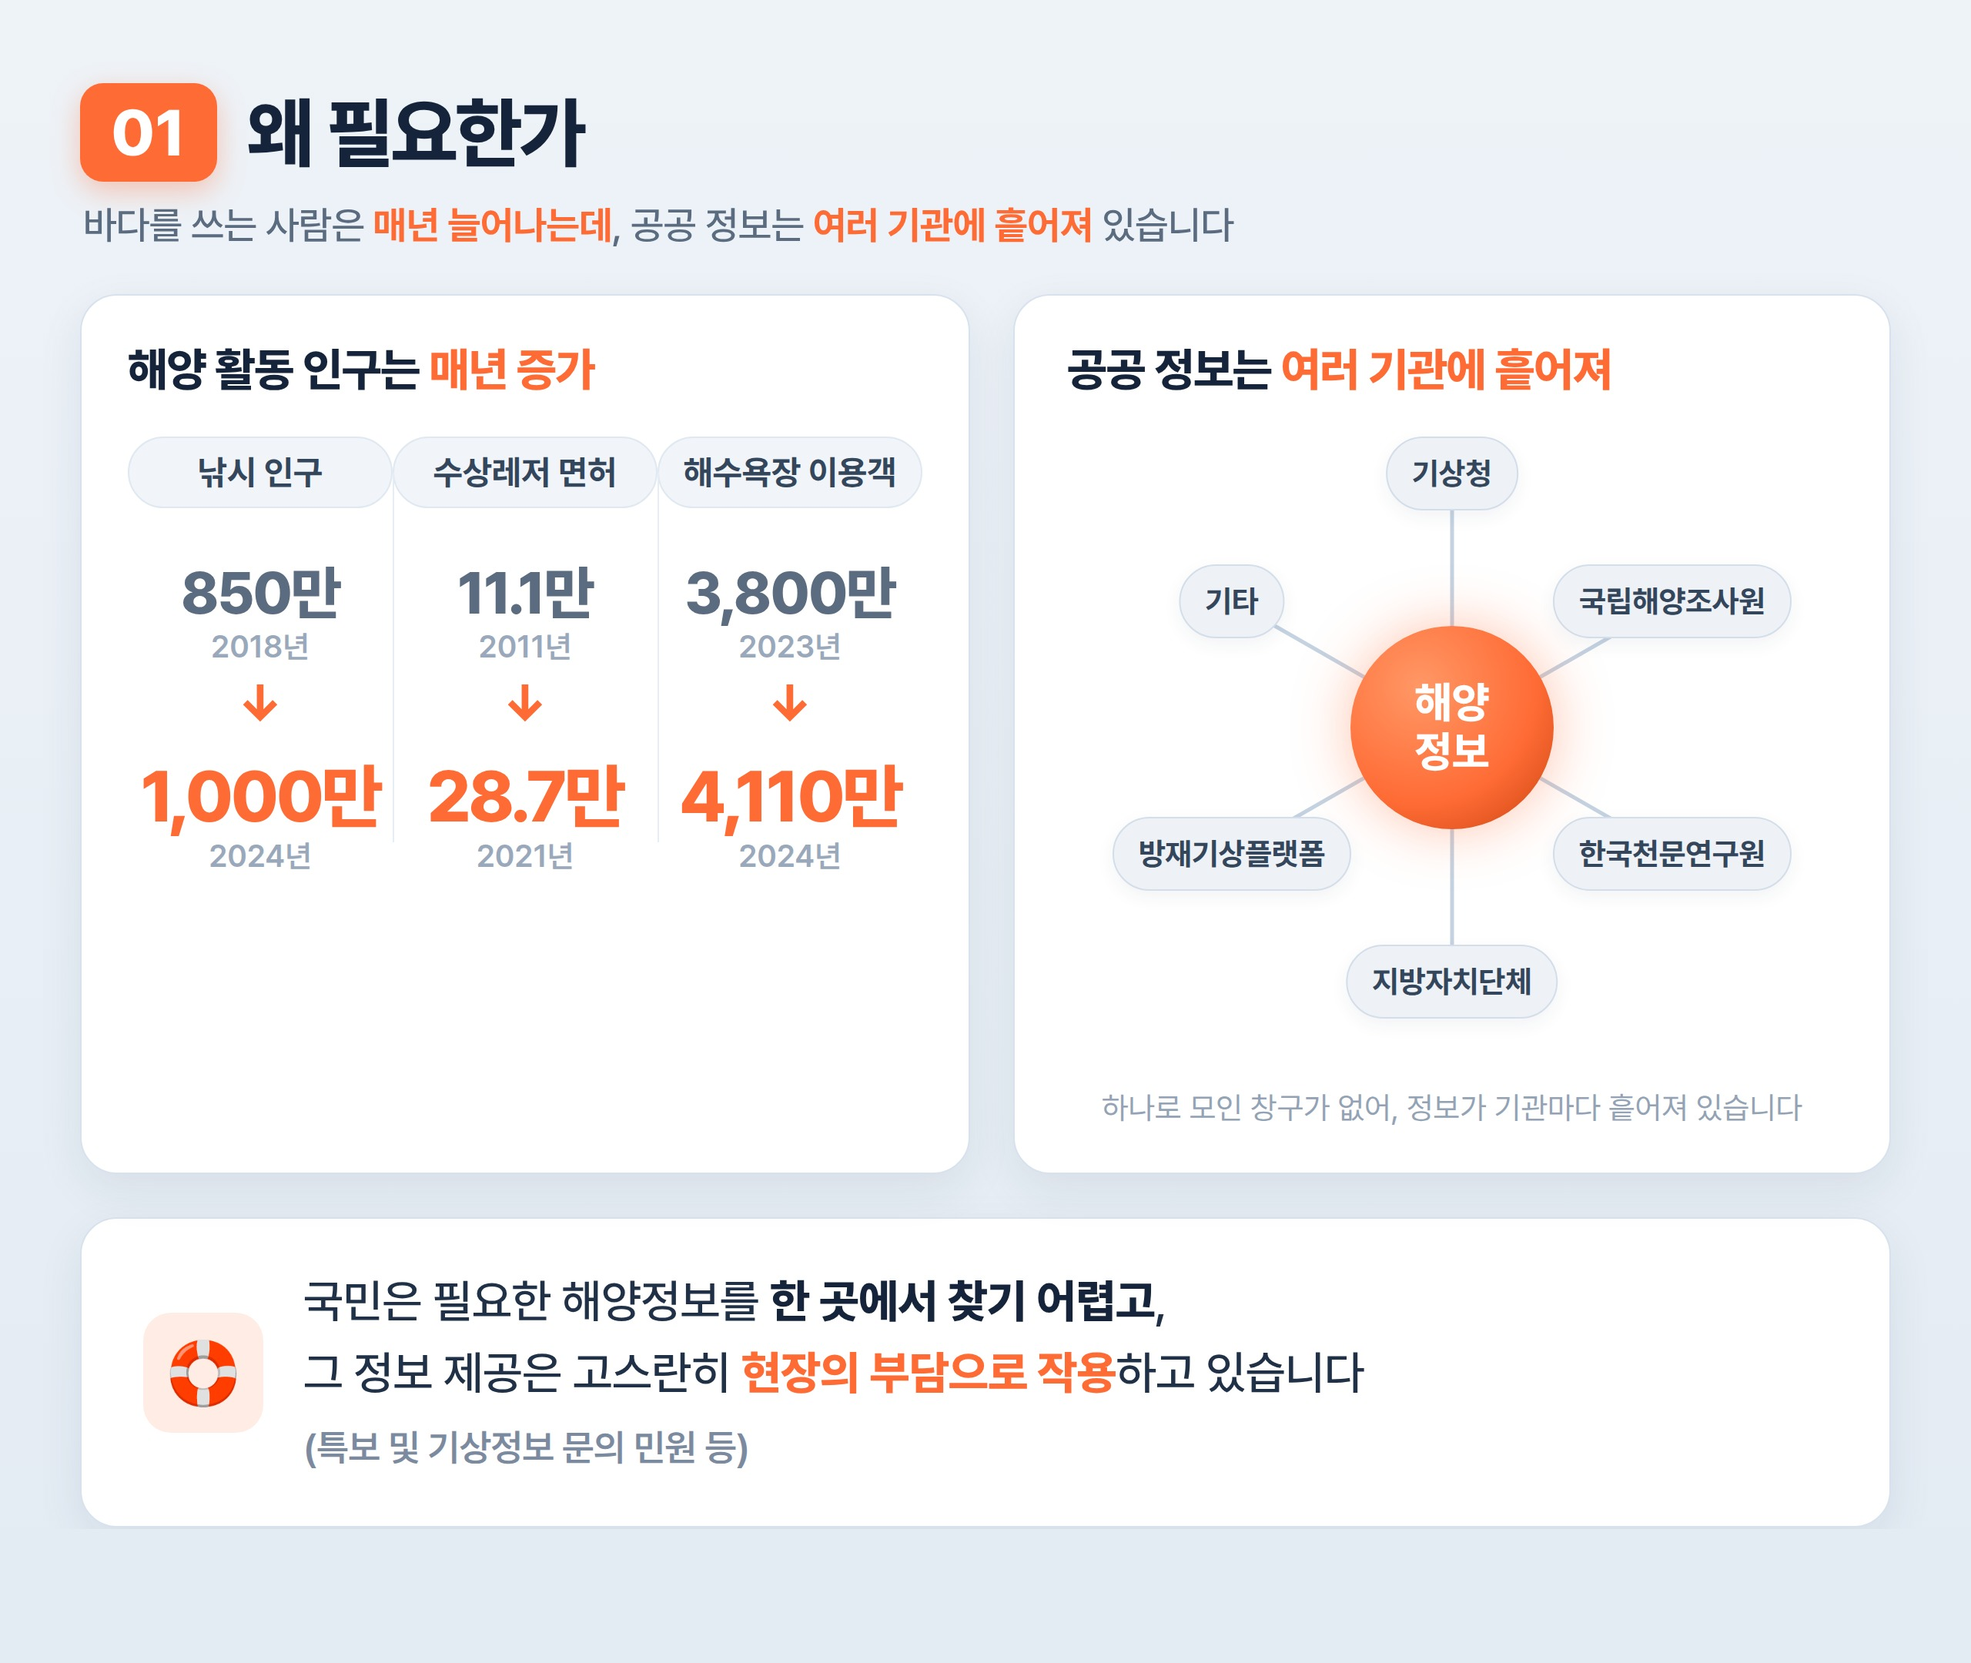
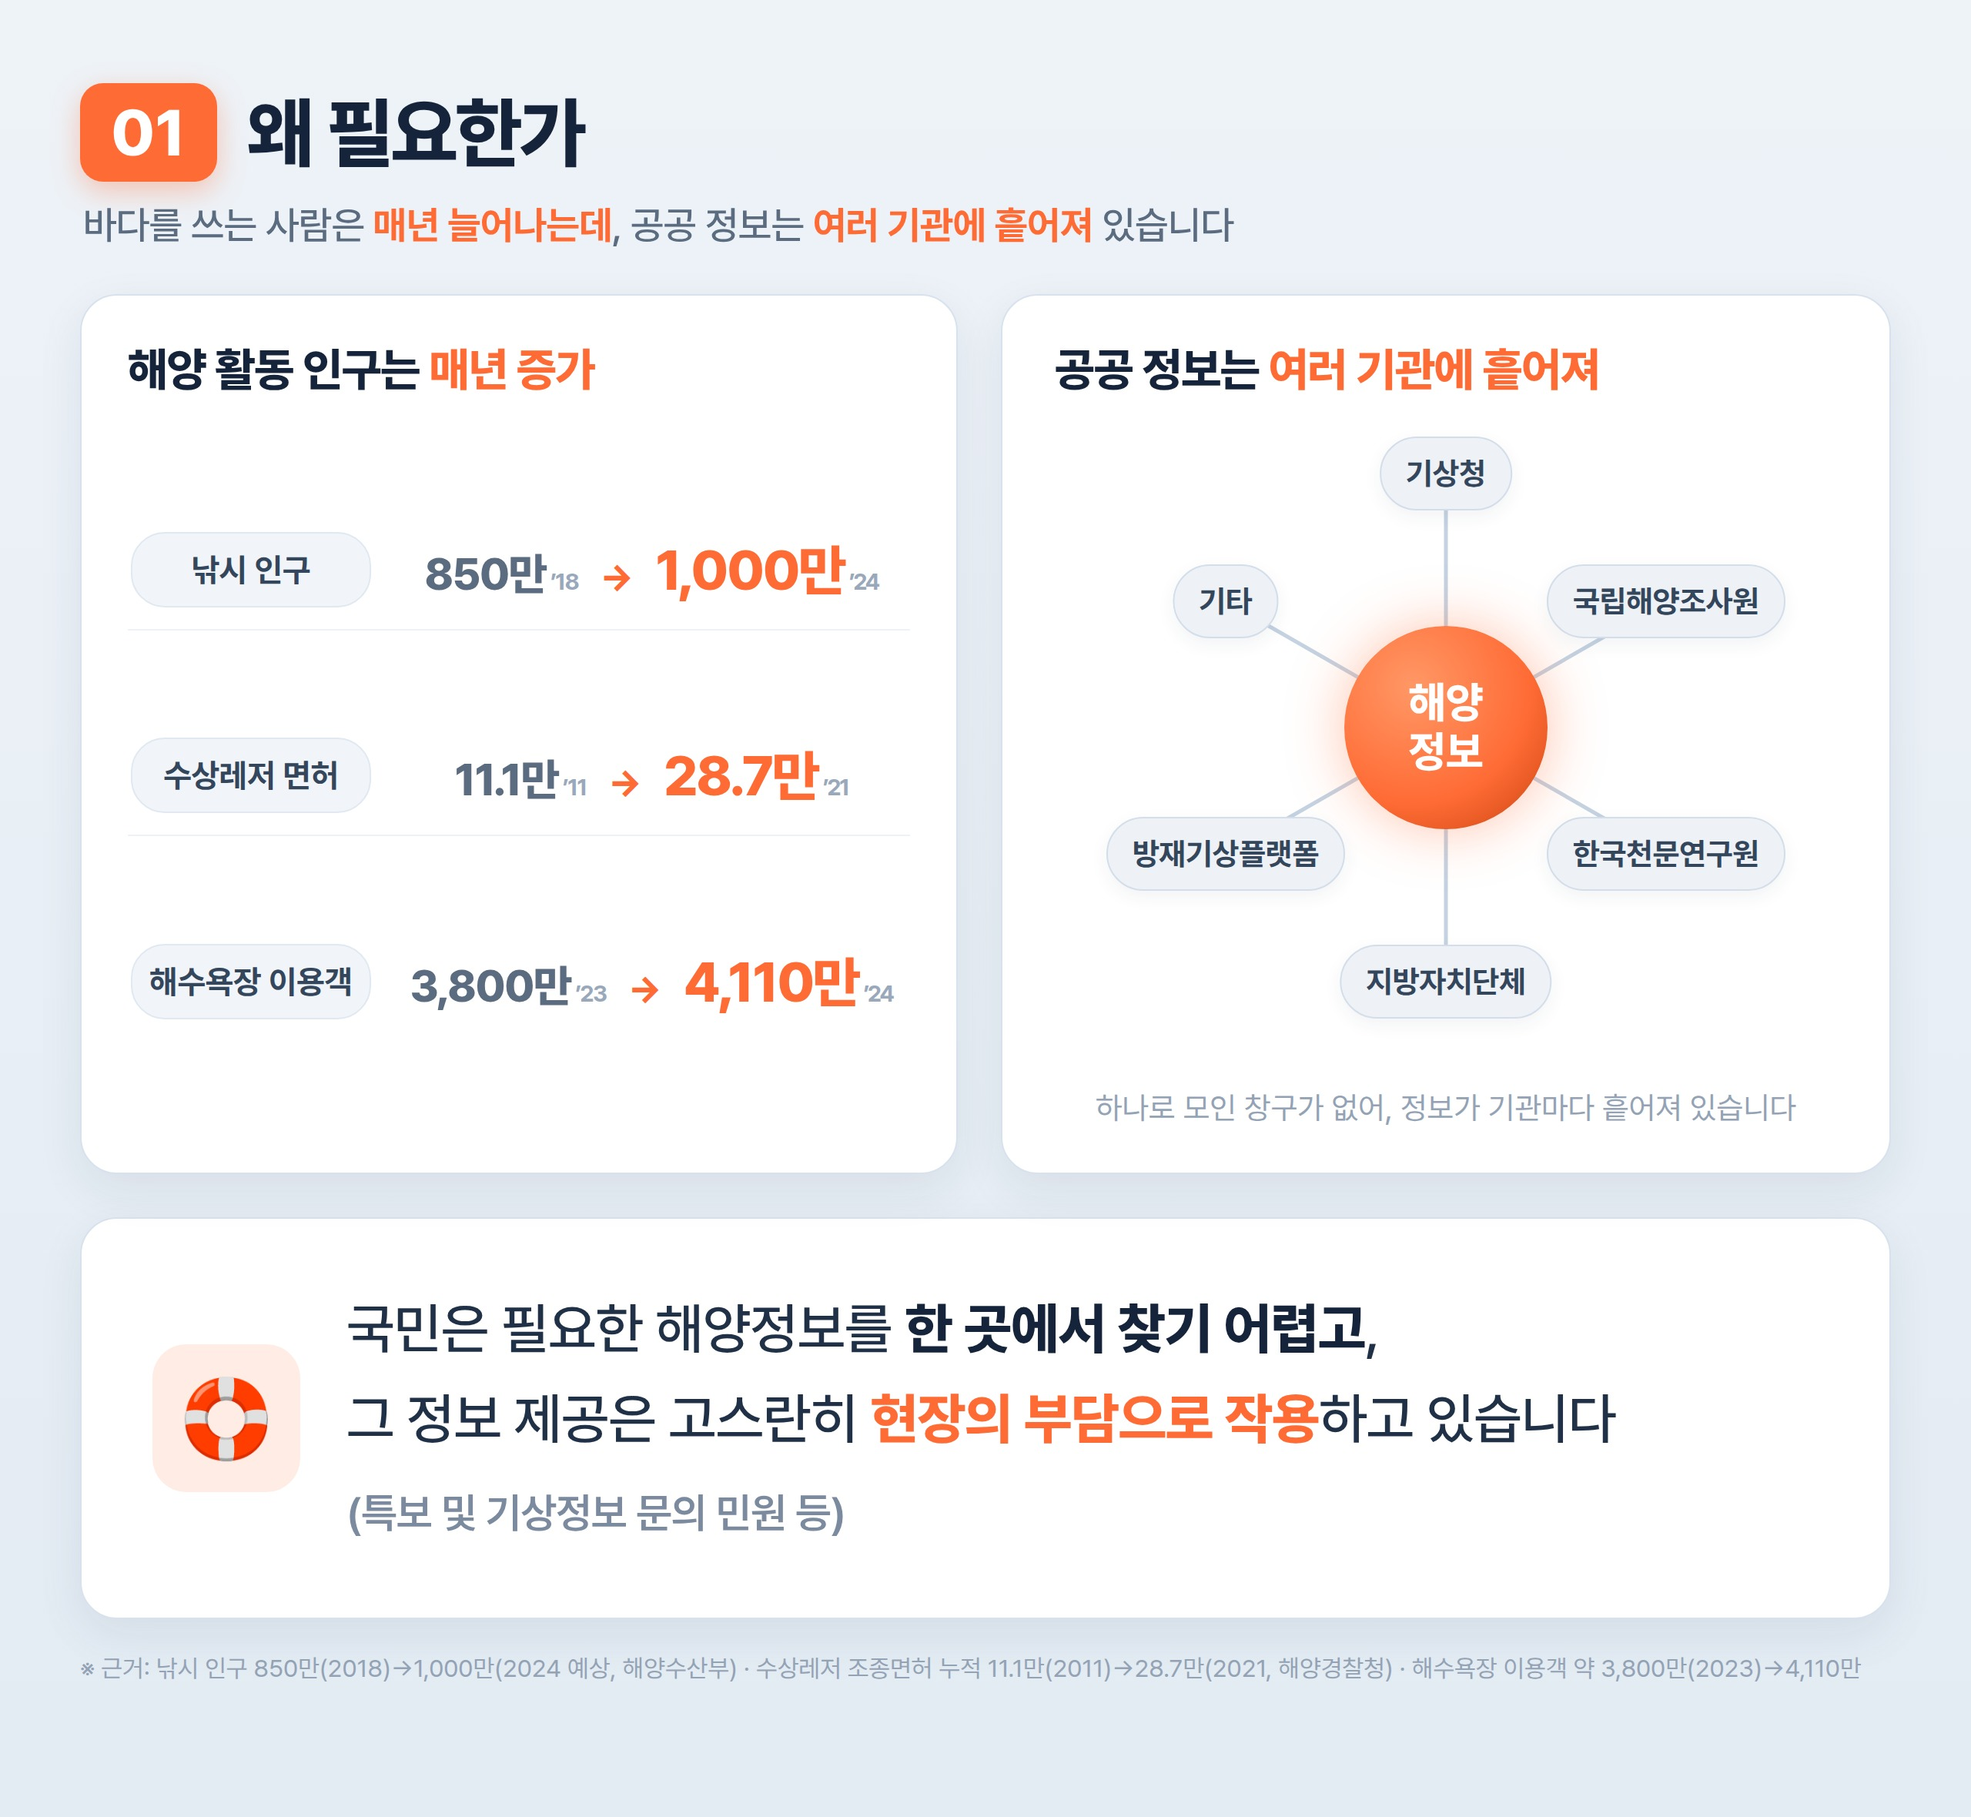
feat(formboard): 01 박스1 가로행·하단 강조 / 02 아이콘·깔때기·나리 시작
01 why2:
- 박스1: 세로 3컬럼 → 가로 행 3개(라벨 | before’yy → after’yy)로 하단 여백 제거
- 하단 '국민은~현장의 부담' 문구 크게(36px)·아이콘 확대

02 what:
- 상단 3박스에 아이콘(수집/AI/결과물) + 문구 간결화
- 'Gemini 2.5' 제거 → '자율 에이전트 나리가'로 시작
- 하단 연결을 아래로 좁아지는 깔때기(넓은 화살표)에 '이 모든 것을 하나의 앱으로' 삽입

Claude-Session: https://claude.ai/code/session_01NPSXCfcq7AeQ1foaBkT7hE

diff --git a/keynote_seagnal/formboard_what.html b/keynote_seagnal/formboard_what.html
@@ -11,26 +11,28 @@ html,body{font-family:'Pretendard',sans-serif;-webkit-font-smoothing:antialiased
 .sub b{color:#FF6B35;font-weight:700;}
 .cardbox{background:#fff;border-radius:24px;box-shadow:0 10px 30px rgba(30,50,80,.08);border:1px solid #d8e2ee;}
 
-/* ── 상단: [박스1] + [박스2] ▶ [박스3] ── */
+/* ── 상단: [박스1] ＋ [박스2] ▶ [박스3] (아이콘 + 간결) ── */
 .flow{display:flex;align-items:stretch;gap:0;}
-.fbox{flex:1;display:flex;flex-direction:column;padding:24px 24px 26px;min-height:330px;}
+.fbox{flex:1;display:flex;flex-direction:column;align-items:flex-start;padding:26px 26px 28px;min-height:296px;}
 .fbox.res{border:2px solid #FF6B35;box-shadow:0 12px 34px rgba(255,107,53,.16);}
-.fbox .step{display:inline-block;align-self:flex-start;background:#f1f5fa;border:1px solid #e0e8f1;border-radius:20px;padding:5px 14px;color:#7c8aa0;font-size:18px;font-weight:700;letter-spacing:-.01em;}
-.fbox.res .step{background:rgba(255,107,53,.12);border-color:rgba(255,107,53,.3);color:#FF6B35;}
-.fbox .ftt{color:#15243a;font-size:26px;font-weight:800;letter-spacing:-.02em;margin:13px 0 15px;line-height:1.25;}
-.fbox .ftt .o{color:#FF6B35;}
-.fbox ul{list-style:none;display:flex;flex-direction:column;gap:12px;}
-.fbox li{position:relative;padding-left:21px;color:#5b6b80;font-size:19px;font-weight:500;line-height:1.45;letter-spacing:-.01em;}
-.fbox li::before{content:"";position:absolute;left:2px;top:10px;width:8px;height:8px;border-radius:50%;background:#FF6B35;}
-.fbox li b{color:#15243a;font-weight:700;}
-.fbox li .o{color:#FF6B35;font-weight:700;}
-.fbox .resline{color:#1f3047;font-size:20px;font-weight:800;line-height:1.4;letter-spacing:-.015em;margin:6px 0 15px;}
-.conn{flex:0 0 52px;display:flex;align-items:center;justify-content:center;color:#FF6B35;font-size:44px;font-weight:800;}
+.fhead{display:flex;align-items:center;gap:13px;margin-bottom:14px;}
+.ficon{flex:0 0 58px;width:58px;height:58px;border-radius:17px;background:rgba(255,107,53,.13);display:flex;align-items:center;justify-content:center;font-size:31px;}
+.fbox.res .ficon{background:rgba(255,107,53,.2);}
+.fstep{display:inline-block;background:#f1f5fa;border:1px solid #e0e8f1;border-radius:20px;padding:6px 15px;color:#7c8aa0;font-size:18px;font-weight:700;letter-spacing:-.01em;}
+.fbox.res .fstep{background:rgba(255,107,53,.12);border-color:rgba(255,107,53,.3);color:#FF6B35;}
+.ftt{color:#15243a;font-size:27px;font-weight:800;letter-spacing:-.02em;margin:4px 0 14px;line-height:1.25;}
+.ftt .o{color:#FF6B35;}
+.fdesc{color:#5b6b80;font-size:20px;font-weight:500;line-height:1.55;letter-spacing:-.01em;}
+.fdesc b{color:#15243a;font-weight:700;}
+.fdesc .o{color:#FF6B35;font-weight:700;}
+.conn{flex:0 0 50px;display:flex;align-items:center;justify-content:center;color:#FF6B35;font-size:42px;font-weight:800;}
 
-/* ── 중앙 큰 화살표 ── */
-.down{display:flex;align-items:center;justify-content:center;gap:16px;margin:14px 0 16px;}
-.down .ar{color:#FF6B35;font-size:42px;font-weight:800;line-height:1;}
-.down .lbl{color:#7c8aa0;font-size:21px;font-weight:700;letter-spacing:-.01em;}
+/* ── 중앙: 아래로 좁아지는 깔때기(넓은 화살표) ── */
+.funnel{margin:14px 0 16px;}
+.fbody{height:90px;background:linear-gradient(180deg,rgba(255,107,53,.16),rgba(255,107,53,.34));clip-path:polygon(0 0,100% 0,66% 100%,34% 100%);display:flex;align-items:center;justify-content:center;}
+.fbody span{color:#15243a;font-size:27px;font-weight:800;letter-spacing:-.02em;}
+.fbody span b{color:#C9430E;}
+.ftip{width:0;height:0;margin:-1px auto 0;border-left:30px solid transparent;border-right:30px solid transparent;border-top:24px solid rgba(255,107,53,.34);}
 
 /* ── 하단: 넓은 박스(주요 기능) ── */
 .wide{padding:28px 34px 32px;}
@@ -47,45 +49,36 @@ html,body{font-family:'Pretendard',sans-serif;-webkit-font-smoothing:antialiased
  <div class="h"><span class="no">02</span><span class="t">무엇을 만들었나</span></div>
  <div class="sub">흩어진 공공 해양정보를 한곳에 모으고(<b>API 통합</b>), AI와 자체 로직으로 가공해, 누구나 쉽게 쓰는 <b>해양안전 플랫폼</b>으로 만들었습니다</div>
 
- <!-- 상단: [박스1] + [박스2] ▶ [박스3] -->
+ <!-- 상단: [박스1] ＋ [박스2] ▶ [박스3] -->
  <div class="flow">
    <div class="cardbox fbox">
-     <span class="step">모으기</span>
-     <div class="ftt">공공기관 해양정보<br><span class="o">API 통합</span></div>
-     <ul>
-       <li><b>기상청</b> (특보·예보·기상부이·태풍·시정)</li>
-       <li><b>국립해양조사원</b> (조석·유향속·수심·해무CCTV·생활지수) 등</li>
-       <li>다출처 공공 <b>실데이터</b>를 직접 수집·통합</li>
-     </ul>
+     <div class="fhead"><div class="ficon">📡</div><span class="fstep">모으기</span></div>
+     <div class="ftt">공공 해양정보 <span class="o">API 통합</span></div>
+     <div class="fdesc">기상청·국립해양조사원 등<br>다출처 공공 <b>실데이터</b>를 직접 수집</div>
    </div>
 
    <div class="conn">＋</div>
 
    <div class="cardbox fbox">
-     <span class="step">가공하기</span>
+     <div class="fhead"><div class="ficon">🤖</div><span class="fstep">가공하기</span></div>
      <div class="ftt">AI <span class="o">+</span> 자체 개발 로직</div>
-     <ul>
-       <li><b>Gemini 2.5</b> 기반 자율 에이전트 <span class="o">'나리'</span>가 <b>16개</b> 해양 데이터 도구를 스스로 호출</li>
-       <li>해역·의도 추출, <b>위치 판정</b>(최단 대피침로), <b>결정론적 처리</b> 등 자체 로직</li>
-     </ul>
+     <div class="fdesc"><b>자율 에이전트 '나리'</b>가 <b>16개</b> 도구를 스스로 호출 · <b>위치 판정</b> 등 자체 로직</div>
    </div>
 
    <div class="conn">▶</div>
 
    <div class="cardbox fbox res">
-     <span class="step">결과물</span>
+     <div class="fhead"><div class="ficon">🛟</div><span class="fstep">결과물</span></div>
      <div class="ftt">통합 해양안전 서비스</div>
-     <div class="resline">"한 앱에서 보고·묻고·먼저 받는<br>통합 해양안전 플랫폼"</div>
-     <ul>
-       <li>흩어진 정보를 한 화면에서 <b>보고</b>(시각화)</li>
-       <li>AI에게 <b>묻고</b>(<span class="o">나리</span>)</li>
-       <li>위험을 <b>먼저 받는다</b>(선제 알림)</li>
-     </ul>
+     <div class="fdesc">한 화면에서 <b>보고</b> · AI에게 <b>묻고</b> · 위험을 <b>먼저 받는다</b></div>
    </div>
  </div>
 
- <!-- 중앙 큰 화살표 -->
- <div class="down"><span class="ar">▼</span><span class="lbl">이 모든 것을 하나의 앱으로 — 주요 기능</span><span class="ar">▼</span></div>
+ <!-- 중앙: 깔때기(넓은 화살표) -->
+ <div class="funnel">
+   <div class="fbody"><span>이 모든 것을 <b>하나의 앱</b>으로</span></div>
+   <div class="ftip"></div>
+ </div>
 
  <!-- 하단: 넓은 박스(주요 기능) -->
  <div class="cardbox wide">

diff --git a/keynote_seagnal/formboard_why2.html b/keynote_seagnal/formboard_why2.html
@@ -14,17 +14,16 @@ html,body{font-family:'Pretendard',sans-serif;-webkit-font-smoothing:antialiased
 .ctt .o{color:#FF6B35;}
 .top{display:flex;gap:28px;align-items:stretch;margin-bottom:28px;}
 
-/* 박스1: 3열 before→after — 고정 높이로 행 정렬 */
-.cols{display:flex;margin-top:26px;}
-.col{flex:1;display:flex;flex-direction:column;align-items:center;position:relative;}
-.col + .col::before{content:"";position:absolute;left:0;top:8%;height:84%;width:1px;background:#e6edf4;}
-.col .lbl{width:172px;text-align:center;background:#f1f5fa;border:1px solid #e0e8f1;border-radius:24px;
- padding:9px 0;color:#34465c;font-size:22px;font-weight:700;white-space:nowrap;}
-.col .b1{height:54px;display:flex;align-items:flex-end;justify-content:center;white-space:nowrap;line-height:1;color:#5b6b80;font-size:38px;font-weight:800;letter-spacing:-.03em;margin-top:20px;}
-.col .yr{height:26px;color:#9aa8bb;font-size:20px;font-weight:600;margin-top:4px;}
-.col .arr{height:44px;display:flex;align-items:center;color:#FF6B35;font-size:34px;font-weight:800;}
-.col .b2{height:62px;display:flex;align-items:flex-end;justify-content:center;white-space:nowrap;line-height:1;color:#FF6B35;font-size:46px;font-weight:800;letter-spacing:-.04em;}
-.col .yr2{height:26px;color:#9aa8bb;font-size:20px;font-weight:600;margin-top:4px;}
+/* 박스1: 3행 가로 before→after — 행을 세로로 고르게 채워 하단 여백 제거 */
+.minfo{flex:1;display:flex;flex-direction:column;justify-content:space-evenly;margin-top:18px;}
+.mrow{display:flex;align-items:center;gap:16px;padding:14px 2px;border-bottom:1px solid #eef2f7;}
+.mrow:last-child{border-bottom:none;}
+.mlbl{flex:0 0 156px;text-align:center;background:#f1f5fa;border:1px solid #e0e8f1;border-radius:22px;padding:11px 0;color:#34465c;font-size:21px;font-weight:700;white-space:nowrap;}
+.mvals{flex:1;display:flex;align-items:baseline;justify-content:center;gap:14px;}
+.mbefore{color:#5b6b80;font-size:29px;font-weight:800;letter-spacing:-.03em;white-space:nowrap;}
+.marr{color:#FF6B35;font-size:24px;font-weight:800;}
+.mafter{color:#FF6B35;font-size:36px;font-weight:800;letter-spacing:-.035em;white-space:nowrap;}
+.myr{font-size:15px;font-weight:700;color:#9aa8bb;margin-left:3px;}
 
 /* 박스2: 방사형 — 컨테이너=SVG=노드 좌표계 모두 460x430 고정(정렬 보장) */
 .radial{position:relative;width:460px;height:430px;margin:10px auto 0;}
@@ -36,12 +35,12 @@ html,body{font-family:'Pretendard',sans-serif;-webkit-font-smoothing:antialiased
 .rcap{color:#93a2b5;font-size:20px;text-align:center;margin-top:10px;}
 
 /* 박스3 */
-.bottom{display:flex;align-items:center;gap:26px;padding:30px 40px;}
-.bottom .ic{flex:0 0 78px;height:78px;border-radius:18px;background:rgba(255,107,53,.13);display:flex;align-items:center;justify-content:center;font-size:40px;}
-.bottom .bt{color:#1f3047;font-size:30px;font-weight:500;line-height:1.55;letter-spacing:-.01em;}
+.bottom{display:flex;align-items:center;gap:30px;padding:42px 46px;}
+.bottom .ic{flex:0 0 96px;height:96px;border-radius:22px;background:rgba(255,107,53,.13);display:flex;align-items:center;justify-content:center;font-size:50px;}
+.bottom .bt{color:#1f3047;font-size:36px;font-weight:500;line-height:1.62;letter-spacing:-.012em;}
 .bottom .bt b{color:#15243a;font-weight:800;}
 .bottom .bt .o{color:#FF6B35;font-weight:800;}
-.bottom .bt .sm{color:#7c8aa0;font-size:24px;font-weight:600;}
+.bottom .bt .sm{color:#7c8aa0;font-size:27px;font-weight:600;}
 .foot{color:#93a2b5;font-size:16px;line-height:1.5;margin-top:20px;}
 </style></head><body>
 <div id="card">
@@ -50,26 +49,20 @@ html,body{font-family:'Pretendard',sans-serif;-webkit-font-smoothing:antialiased
 
  <div class="top">
    <!-- 좌: 3요소 before→after 큰 숫자 -->
-   <div class="cardbox" style="flex:1;padding:30px 30px 36px;">
+   <div class="cardbox" style="flex:1;padding:30px 30px 30px;display:flex;flex-direction:column;">
      <div class="ctt">해양 활동 인구는 <span class="o">매년 증가</span></div>
-     <div class="cols">
-       <div class="col">
-         <span class="lbl">낚시 인구</span>
-         <div class="b1">850만</div><div class="yr">2018년</div>
-         <div class="arr">↓</div>
-         <div class="b2">1,000만</div><div class="yr2">2024년</div>
+     <div class="minfo">
+       <div class="mrow">
+         <span class="mlbl">낚시 인구</span>
+         <span class="mvals"><span class="mbefore">850만<span class="myr">’18</span></span><span class="marr">→</span><span class="mafter">1,000만<span class="myr">’24</span></span></span>
        </div>
-       <div class="col">
-         <span class="lbl">수상레저 면허</span>
-         <div class="b1">11.1만</div><div class="yr">2011년</div>
-         <div class="arr">↓</div>
-         <div class="b2">28.7만</div><div class="yr2">2021년</div>
+       <div class="mrow">
+         <span class="mlbl">수상레저 면허</span>
+         <span class="mvals"><span class="mbefore">11.1만<span class="myr">’11</span></span><span class="marr">→</span><span class="mafter">28.7만<span class="myr">’21</span></span></span>
        </div>
-       <div class="col">
-         <span class="lbl">해수욕장 이용객</span>
-         <div class="b1">3,800만</div><div class="yr">2023년</div>
-         <div class="arr">↓</div>
-         <div class="b2">4,110만</div><div class="yr2">2024년</div>
+       <div class="mrow">
+         <span class="mlbl">해수욕장 이용객</span>
+         <span class="mvals"><span class="mbefore">3,800만<span class="myr">’23</span></span><span class="marr">→</span><span class="mafter">4,110만<span class="myr">’24</span></span></span>
        </div>
      </div>
    </div>
